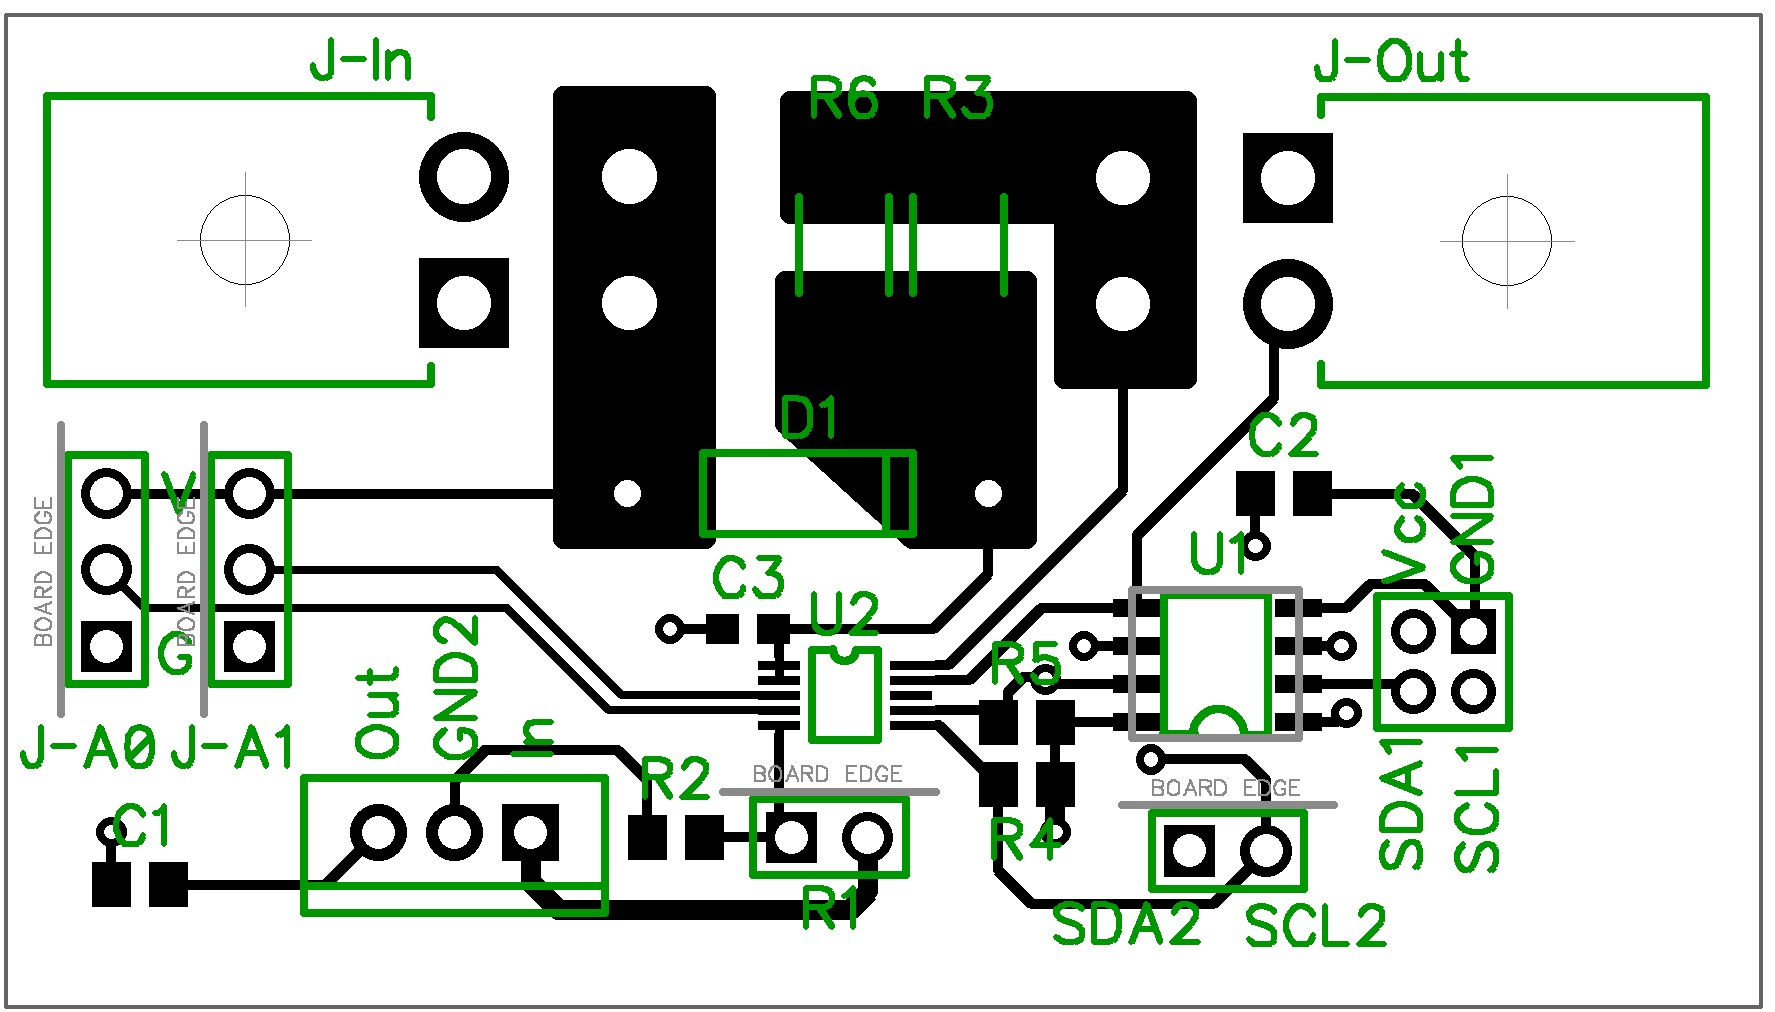
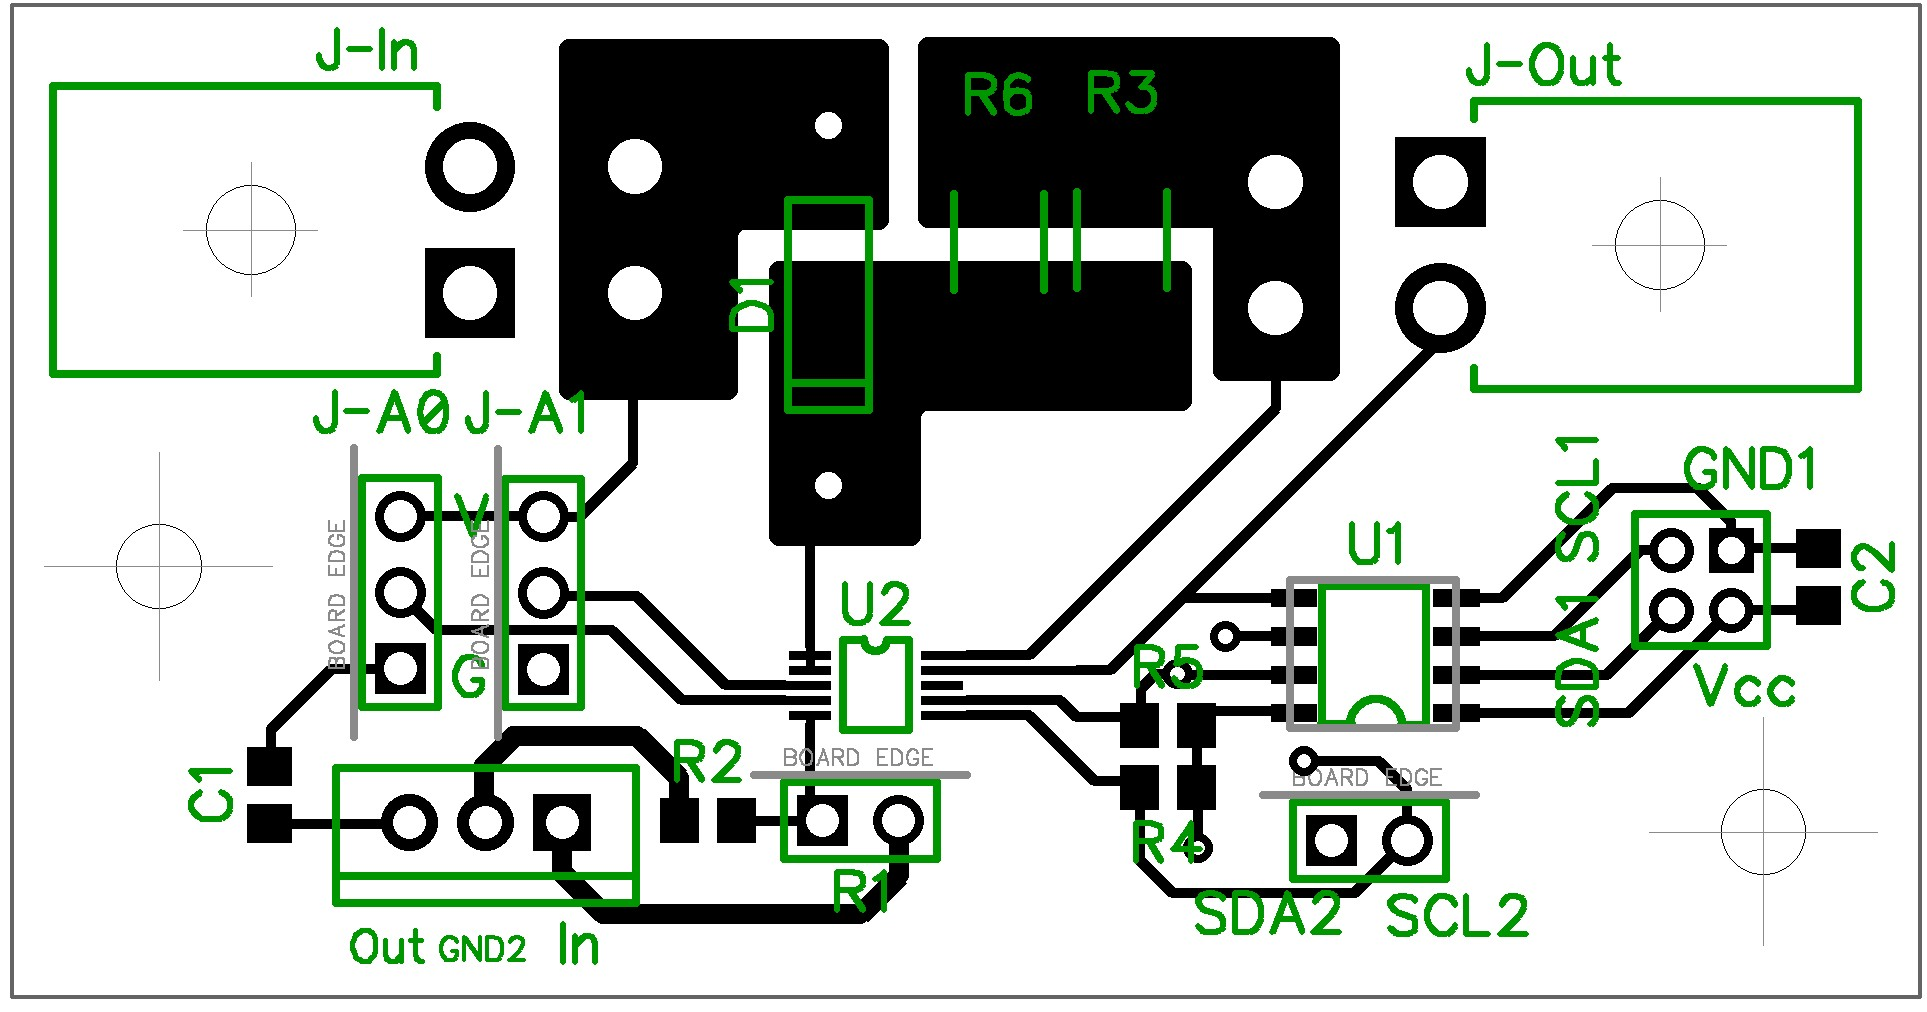
Final PCB voltage current monitor layout.

diff --git a/rover/voltage-current-monitor/README.md b/rover/voltage-current-monitor/README.md
@@ -6,6 +6,7 @@ __Description:__ This is a high-side I2C Current and Voltage Monitor (LTC4151CDD
 
 __Schematic:__ ![](voltage-current-monitor_sch_s1.jpg)
 
+__PCB Final lay 1:__ ![](voltage-current-monitor_lay_l1.jpg)
 
-_Comments:_ Put resistor across Adresse line in series (0605).
+__PCB Final lay 2:__ ![](voltage-current-monitor_lay_l2.jpg)
             
